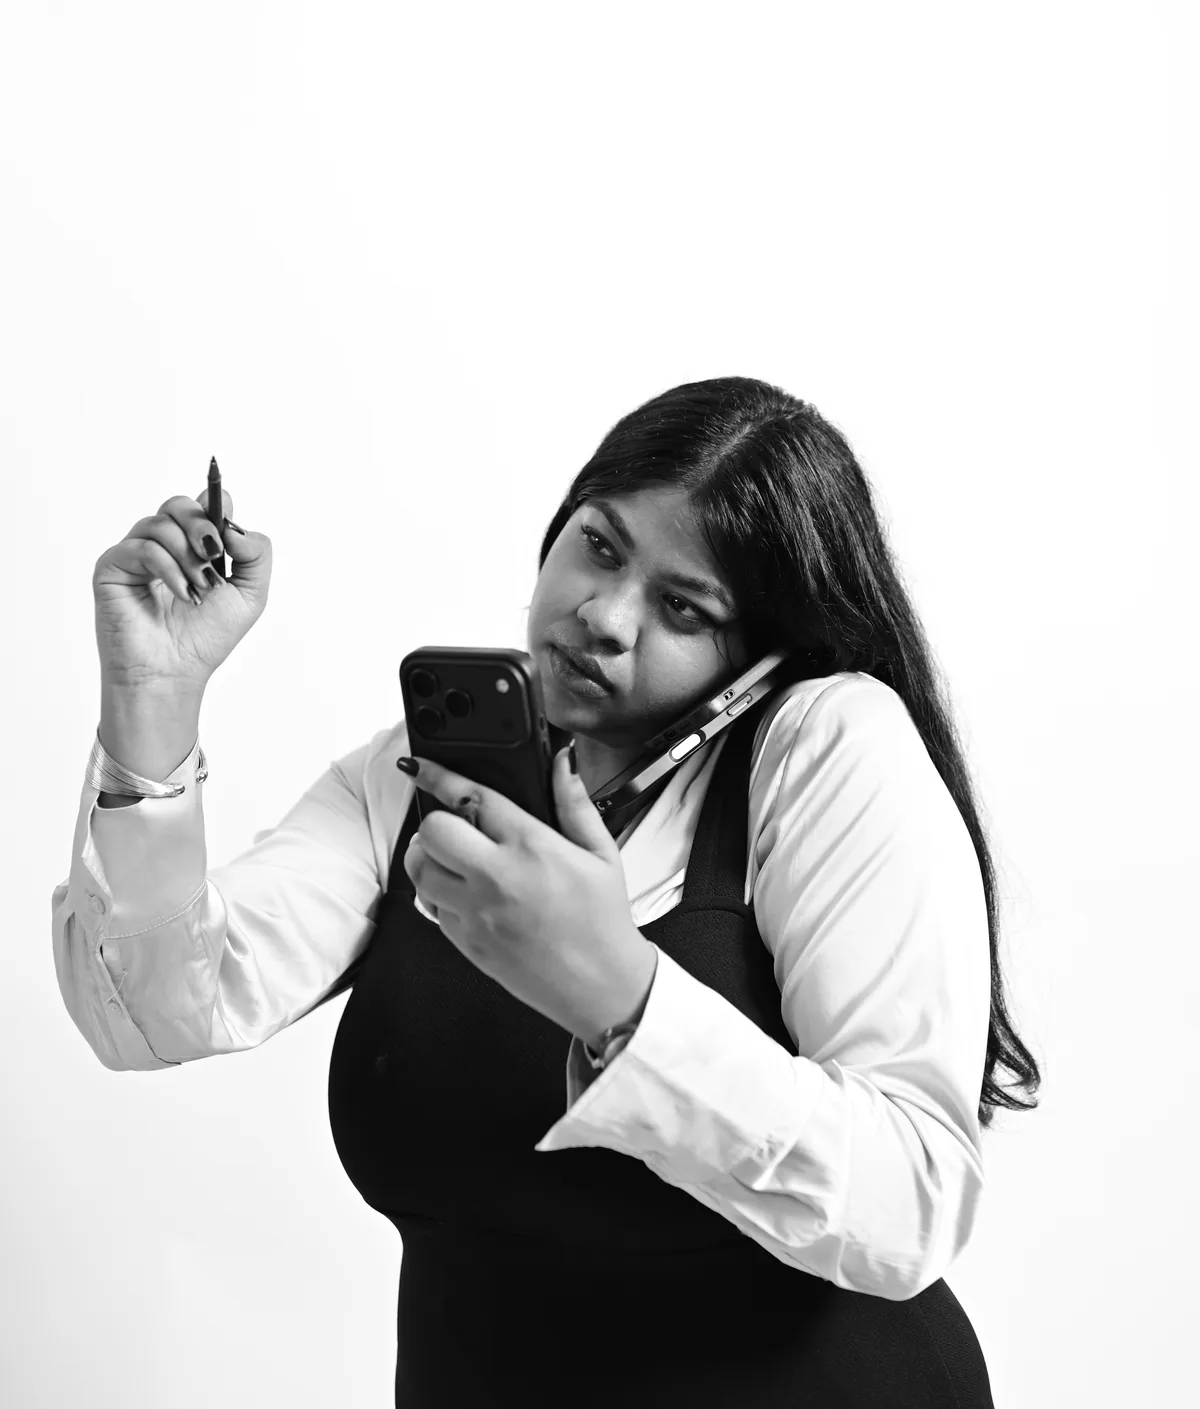
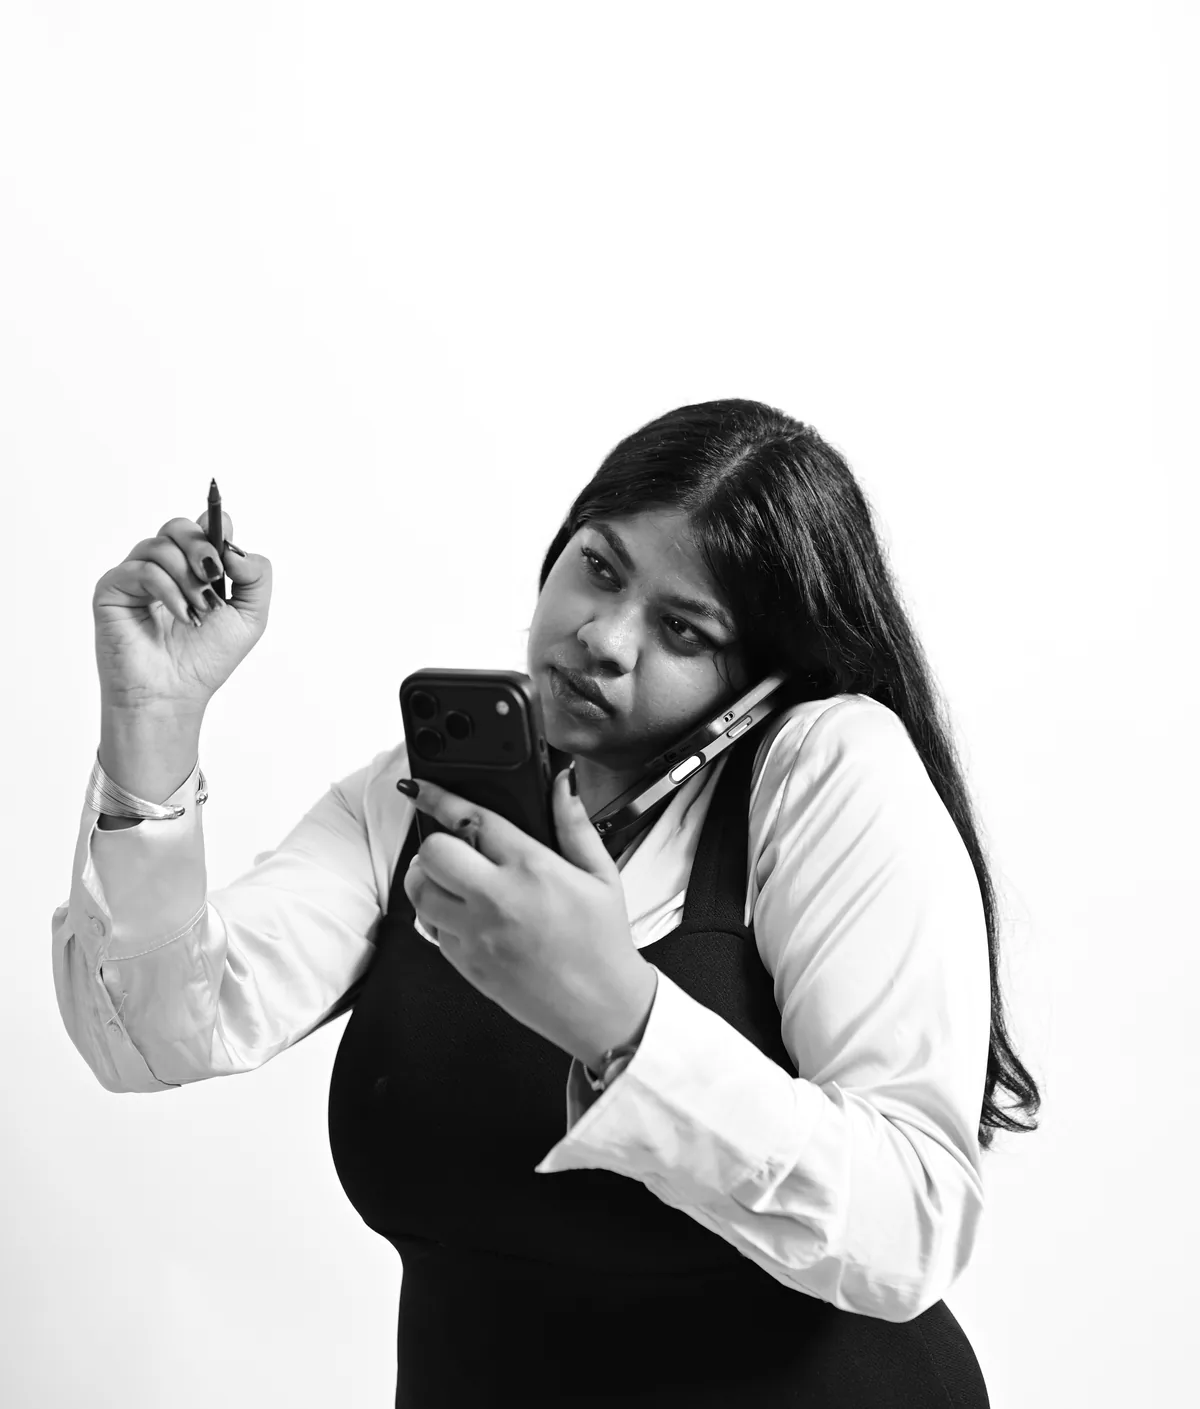
Update Aratrika's portrait on The Collective

diff --git a/the-collective.html b/the-collective.html
@@ -166,7 +166,7 @@
         <div class="clt__media">
           <div class="clt__mask">
             <img src="assets/img/collective/aratrika.webp" decoding="async"
-                 alt="Aratrika Tarafdar seated with a phone and a laptop, photographed in black and white" width="1200" height="1409" />
+                 alt="Aratrika Tarafdar on a phone call, holding a second phone and a pen, photographed in black and white" width="1200" height="1409" />
           </div>
         </div>
         <div class="clt__copy">
